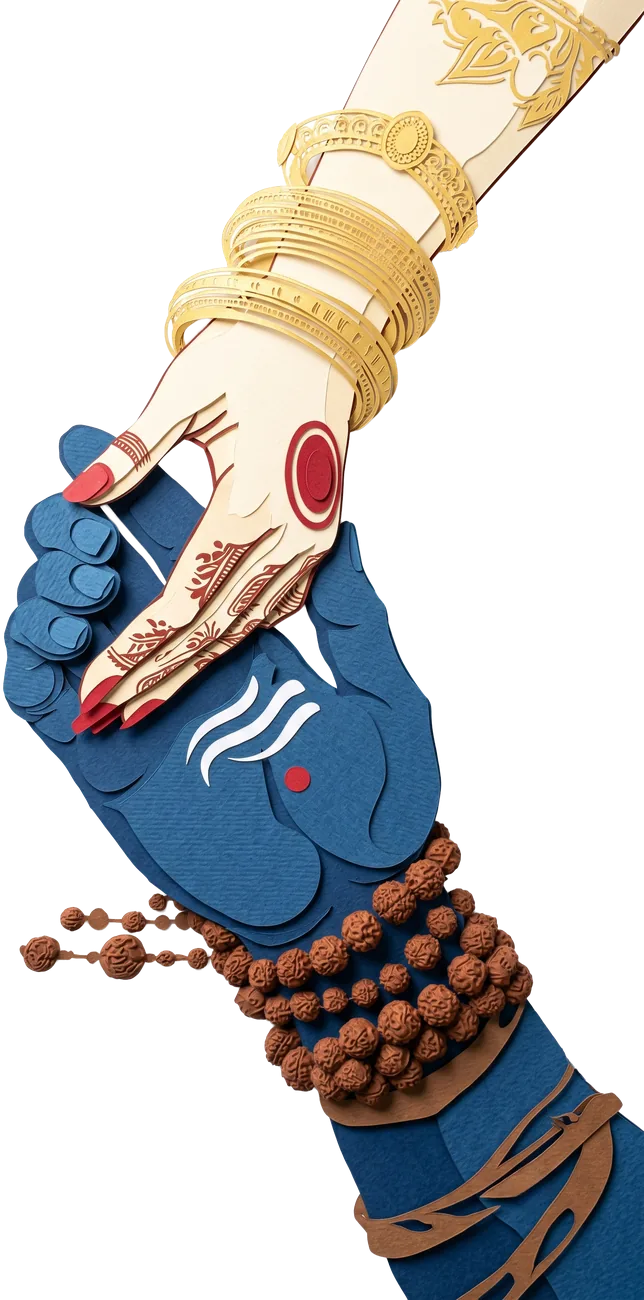
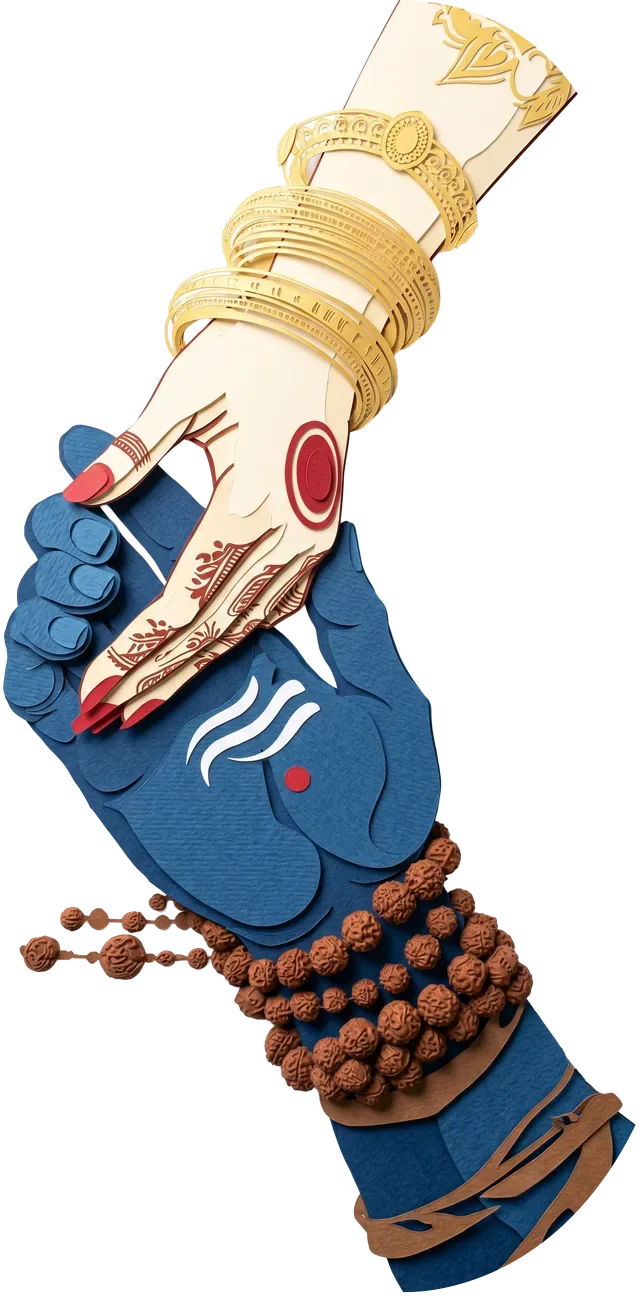
Opening screen that starts the music, remove doubled shadows, latest hands artwork

diff --git a/styles.css b/styles.css
@@ -153,7 +153,7 @@ a { color: inherit; }
   animation: sway 7s ease-in-out infinite alternate;
   pointer-events: none;
 }
-.garland img { width: 100%; filter: var(--cut-shadow); }
+.garland img { width: 100%; } /* the artwork carries its own paper shadows */
 .garland--left  { left:  calc(var(--edge) - var(--gw) / 2); }
 .garland--right { right: calc(var(--edge) - var(--gw) / 2); animation-delay: -3.5s; animation-duration: 8s; }
 @keyframes sway { from { rotate: -1.6deg; } to { rotate: 1.6deg; } }
@@ -197,9 +197,9 @@ a { color: inherit; }
 .hero__hands img {
   height: 100%; width: auto; max-width: min(64vw, 300px);
   object-fit: contain;
-  /* both arms run off the artwork's top and bottom edges, so fade those ends into the paper */
-  -webkit-mask-image: linear-gradient(to bottom, transparent 0, #000 12%, #000 86%, transparent 100%);
-          mask-image: linear-gradient(to bottom, transparent 0, #000 12%, #000 86%, transparent 100%);
+  /* the upper arm runs off the artwork's top edge, so fade that end into the paper */
+  -webkit-mask-image: linear-gradient(to bottom, transparent 0, #000 10%);
+          mask-image: linear-gradient(to bottom, transparent 0, #000 10%);
   animation: float 6s ease-in-out infinite alternate;
 }
 
@@ -489,6 +489,56 @@ a { color: inherit; }
 .footer__names span { font-family: var(--serif); font-style: italic; font-weight: 400; font-size: .7em; color: var(--gold-soft); }
 .footer__date { font-family: var(--sans); font-size: .72rem; font-weight: 500; letter-spacing: .4em; color: var(--gold-soft); margin: 8px -.4em 0 0; }
 
+/* ---------- OPENING SCREEN ---------- */
+.gate { display: none; }
+.js .gate {
+  position: fixed; inset: 0; z-index: 45; /* under the grain so it shares the paper texture */
+  display: grid; place-items: center;
+  padding: 24px var(--pad) calc(24px + env(safe-area-inset-bottom));
+  overflow: hidden;
+  text-align: center;
+  background:
+    radial-gradient(90% 60% at 50% 45%, #fffaf0 0%, transparent 75%),
+    linear-gradient(var(--cream), var(--paper));
+  transition: transform 1.1s cubic-bezier(.7, 0, .2, 1), opacity .6s;
+}
+.gate.is-leaving { transform: translateY(-104%); pointer-events: none; }
+.gate::after { /* scalloped paper edge along the bottom, visible as the cover lifts */
+  content: ""; position: absolute; left: 0; right: 0; bottom: -1px; height: 22px;
+  background: radial-gradient(circle 12px at 50% 100%, var(--gold) 98%, transparent 100%) 0 0 / 24px 22px repeat-x;
+  opacity: .55;
+}
+.gate__toran { position: absolute; top: -2px; left: 50%; width: max(100%, 400px); max-width: 900px; translate: -50% 0; }
+.gate__inner { position: relative; display: flex; flex-direction: column; align-items: center; margin-top: 12vh; }
+.gate__emblem { width: clamp(64px, 18vw, 92px); margin-bottom: 14px; }
+.gate__names {
+  font-family: var(--display); font-weight: 500;
+  font-size: clamp(2.3rem, 10vw, 4rem); line-height: 1.12; letter-spacing: -.005em;
+  color: var(--green); margin-top: 6px;
+}
+.gate__names span { font-family: var(--serif); font-style: italic; font-weight: 400; font-size: .7em; color: var(--gold); }
+.gate__date { font-family: var(--sans); font-size: .74rem; font-weight: 500; letter-spacing: .4em; color: var(--gold-text); margin: 6px -.4em 30px 0; }
+.gate__open {
+  font: 500 .8rem/1 var(--sans); letter-spacing: .24em; text-transform: uppercase;
+  padding: 18px 34px; min-height: 54px; border: 0; border-radius: 999px;
+  background: var(--maroon); color: var(--cream); cursor: pointer;
+  box-shadow: 0 0 0 5px rgba(138, 28, 44, .14), 0 5px 0 var(--maroon-deep), 0 14px 26px rgba(90, 20, 30, .28);
+  transition: translate .3s var(--ease-paper), box-shadow .3s;
+  animation: beckon 2.4s ease-in-out infinite;
+}
+.gate__open:hover { translate: 0 -2px; }
+.gate__open:active { translate: 0 3px; box-shadow: 0 0 0 5px rgba(138, 28, 44, .14), 0 2px 0 var(--maroon-deep); }
+.gate__open:focus-visible { outline: 2px solid var(--maroon); outline-offset: 6px; }
+@keyframes beckon { 0%, 100% { box-shadow: 0 0 0 5px rgba(138, 28, 44, .14), 0 5px 0 var(--maroon-deep), 0 14px 26px rgba(90, 20, 30, .28); }
+                    50% { box-shadow: 0 0 0 12px rgba(138, 28, 44, .06), 0 5px 0 var(--maroon-deep), 0 14px 26px rgba(90, 20, 30, .28); } }
+.gate__note {
+  display: flex; align-items: center; gap: 8px; margin-top: 18px;
+  font-family: var(--sans); font-size: .66rem; font-weight: 500; letter-spacing: .2em; text-transform: uppercase; color: var(--ink-soft);
+}
+.gate__note svg { width: 15px; height: 15px; fill: none; stroke: currentColor; stroke-width: 1.6; stroke-linecap: round; stroke-linejoin: round; }
+html.gate-lock, html.gate-lock body { overflow: hidden; }
+html.gate-lock .music { visibility: hidden; }
+
 /* ---------- MUSIC TOGGLE ---------- */
 .music {
   position: fixed; z-index: 60;
@@ -552,7 +602,8 @@ a { color: inherit; }
 }
 
 @media (prefers-reduced-motion: reduce) {
-  .garland, .scroll-cue i, .petal, .hero__hands img, .countdown b.tick, .music__bars i { animation: none; }
+  .garland, .scroll-cue i, .petal, .hero__hands img, .countdown b.tick, .music__bars i, .gate__open { animation: none; }
+  .gate { transition: none; }
   .petals { display: none; }
   .btn { transition: none; }
 }

diff --git a/script.js b/script.js
@@ -100,12 +100,13 @@ const REDUCE = matchMedia("(prefers-reduced-motion: reduce)").matches;
   }
 })();
 
-/* Background music: fades in on the first tap anywhere (browsers block sound before that),
-   the button toggles it, and a visitor who turns it off is not surprised by it again */
-(function music() {
+/* Background music. Browsers only allow sound after a tap, so it starts from the
+   "Open Invitation" tap on the opening screen (or the first tap anywhere as a fallback).
+   The button toggles it, and a visitor who turns it off is not surprised by it again. */
+const MUSIC = (function music() {
   const audio = document.getElementById("bgm");
   const btn = document.getElementById("music-toggle");
-  if (!audio || !btn) return;
+  if (!audio || !btn) return { play() {}, wanted: () => false };
   const VOLUME = 0.45;
   const store = {
     get() { try { return localStorage.getItem("rw-music"); } catch { return null; } },
@@ -127,25 +128,27 @@ const REDUCE = matchMedia("(prefers-reduced-motion: reduce)").matches;
     btn.setAttribute("aria-label", on ? "Pause music" : "Play music");
   };
   const play = () => {
+    if (!audio.paused) return Promise.resolve();
     audio.volume = 0;
     return audio.play().then(() => { show(true); ramp(VOLUME, 4000); }).catch(() => show(false));
   };
   const pause = () => { show(false); ramp(0, 600, () => audio.pause()); };
+  const wanted = () => store.get() !== "off";
 
   btn.addEventListener("click", () => {
     if (audio.paused || btn.getAttribute("aria-pressed") === "false") { store.set("on"); play(); }
     else { store.set("off"); pause(); }
   });
 
-  /* First tap anywhere else starts it, unless they turned it off on an earlier visit */
+  /* Fallback: the first tap, click or key press anywhere. On phones only the end of a
+     tap (pointerup / touchend) counts as permission, so listen for those too. */
+  const events = ["pointerup", "touchend", "click", "keydown"];
   const firstTap = (e) => {
-    removeEventListener("pointerdown", firstTap);
-    removeEventListener("keydown", firstTap);
-    if (btn.contains(e.target) || store.get() === "off") return;
+    events.forEach((ev) => removeEventListener(ev, firstTap, true));
+    if (btn.contains(e.target) || !wanted()) return;
     play();
   };
-  addEventListener("pointerdown", firstTap);
-  addEventListener("keydown", firstTap);
+  events.forEach((ev) => addEventListener(ev, firstTap, true));
 
   /* Quiet while the tab is in the background */
   let wasPlaying = false;
@@ -153,6 +156,30 @@ const REDUCE = matchMedia("(prefers-reduced-motion: reduce)").matches;
     if (document.hidden) { wasPlaying = !audio.paused; audio.pause(); }
     else if (wasPlaying) audio.play().catch(() => {});
   });
+
+  return { play, wanted };
+})();
+
+/* Opening screen: one tap opens the invitation and starts the music.
+   GATE.opened resolves when it is gone, so the hero entrance plays after it. */
+const GATE = (function gate() {
+  const el = document.getElementById("gate");
+  const open = document.getElementById("gate-open");
+  let done;
+  const opened = new Promise((r) => (done = r));
+  if (!el || !open) { done(); return { opened }; }
+  document.documentElement.classList.add("gate-lock");
+  open.focus({ preventScroll: true });
+  open.addEventListener("click", () => {
+    if (MUSIC.wanted()) MUSIC.play();
+    document.documentElement.classList.remove("gate-lock");
+    el.classList.add("is-leaving");
+    const finish = () => { el.remove(); done(); };
+    if (REDUCE) finish();
+    else { el.addEventListener("transitionend", finish, { once: true }); setTimeout(finish, 1600); }
+    setTimeout(done, REDUCE ? 0 : 500); // start the hero entrance while the cover lifts
+  }, { once: true });
+  return { opened };
 })();
 
 /* ---------- Motion ---------- */
@@ -165,6 +192,7 @@ window.addEventListener("DOMContentLoaded", () => {
   /* Smooth scrolling */
   if (window.Lenis) {
     const lenis = new Lenis({ duration: 1.2, smoothWheel: true });
+    if (document.documentElement.classList.contains("gate-lock")) { lenis.stop(); GATE.opened.then(() => lenis.start()); }
     lenis.on("scroll", ScrollTrigger.update);
     gsap.ticker.add((t) => lenis.raf(t * 1000));
     gsap.ticker.lagSmoothing(0);
@@ -179,7 +207,8 @@ window.addEventListener("DOMContentLoaded", () => {
   gsap.set("[data-reveal], [data-card]", { autoAlpha: 0 });
 
   /* Hero entrance: the paper layers drop and settle one by one */
-  const intro = gsap.timeline({ defaults: { ease: "power3.out" }, delay: 0.15 });
+  const intro = gsap.timeline({ defaults: { ease: "power3.out" }, delay: 0.15, paused: true });
+  GATE.opened.then(() => intro.play());
   intro
     .from(".toran", { yPercent: -110, duration: 1.3, ease: "back.out(1.1)" })
     .from(".garland", { yPercent: -105, duration: 1.4, stagger: 0.12, ease: "back.out(1.2)" }, "-=1.0")

diff --git a/index.html b/index.html
@@ -19,11 +19,28 @@
   <link rel="preconnect" href="https://fonts.googleapis.com">
   <link rel="preconnect" href="https://fonts.gstatic.com" crossorigin>
   <link href="https://fonts.googleapis.com/css2?family=Cormorant+Garamond:ital,wght@0,400;0,500;0,600;1,400;1,500&family=Jost:wght@400;500&family=Pinyon+Script&display=swap" rel="stylesheet">
-  <link rel="preload" as="image" href="assets/hands.webp?v=4" type="image/webp">
+  <link rel="preload" as="image" href="assets/hands.webp?v=5" type="image/webp">
   <link rel="preload" as="font" href="assets/fonts/LostaMasta-Medium.woff2?v=3" type="font/woff2" crossorigin>
-  <link rel="stylesheet" href="styles.css?v=4">
+  <link rel="stylesheet" href="styles.css?v=5">
+  <script>document.documentElement.classList.add("js")</script>
 </head>
 <body>
+  <!-- Opening screen: the tap on "Open Invitation" is what lets the music play -->
+  <div class="gate" id="gate" role="dialog" aria-modal="true" aria-labelledby="gate-title">
+    <img class="gate__toran" src="assets/toran.webp" width="1600" height="609" alt="">
+    <div class="gate__inner">
+      <img class="gate__emblem" src="assets/ganesha.webp" width="320" height="319" alt="">
+      <p class="eyebrow">You are invited to the engagement of</p>
+      <h2 class="gate__names" id="gate-title">Rohitha <span>&amp;</span> Winod</h2>
+      <p class="gate__date">25 . 10 . 2026</p>
+      <button class="gate__open" id="gate-open" type="button">Open Invitation</button>
+      <p class="gate__note">
+        <svg viewBox="0 0 24 24" aria-hidden="true"><path d="M9 18V5l11-2v13"/><circle cx="6" cy="18" r="3"/><circle cx="17" cy="16" r="3"/></svg>
+        Best with sound on
+      </p>
+    </div>
+  </div>
+
   <div class="grain" aria-hidden="true"></div>
   <div class="petals" aria-hidden="true"></div>
 
@@ -41,7 +58,7 @@
         <span class="line"><span>One Beautiful <em>Beginning</em></span></span>
       </h1>
       <div class="hero__hands" data-speed="-8">
-        <img class="cut" src="assets/hands.webp?v=4" width="644" height="1300" fetchpriority="high" alt="Two hands meeting, one adorned with mehndi and a ring">
+        <img src="assets/hands.webp?v=5" width="644" height="1299" fetchpriority="high" alt="Two hands meeting, one adorned with mehndi and a ring">
       </div>
     </div>
 
@@ -163,7 +180,7 @@
   </footer>
 
   <!-- Background music: browsers only allow sound after a tap, so it starts on the first tap or from this button -->
-  <audio id="bgm" src="assets/music.m4a?v=3" loop preload="none"></audio>
+  <audio id="bgm" src="assets/music.m4a?v=3" loop preload="auto"></audio>
   <button class="music" id="music-toggle" type="button" aria-pressed="false" aria-label="Play music">
     <svg class="music__note" viewBox="0 0 24 24" aria-hidden="true"><path d="M9 18V5l11-2v13"/><circle cx="6" cy="18" r="3"/><circle cx="17" cy="16" r="3"/></svg>
     <span class="music__bars" aria-hidden="true"><i></i><i></i><i></i></span>
@@ -172,6 +189,6 @@
   <script src="https://cdnjs.cloudflare.com/ajax/libs/gsap/3.12.5/gsap.min.js" defer></script>
   <script src="https://cdnjs.cloudflare.com/ajax/libs/gsap/3.12.5/ScrollTrigger.min.js" defer></script>
   <script src="https://unpkg.com/lenis@1.1.14/dist/lenis.min.js" defer></script>
-  <script src="script.js?v=4" defer></script>
+  <script src="script.js?v=5" defer></script>
 </body>
 </html>
